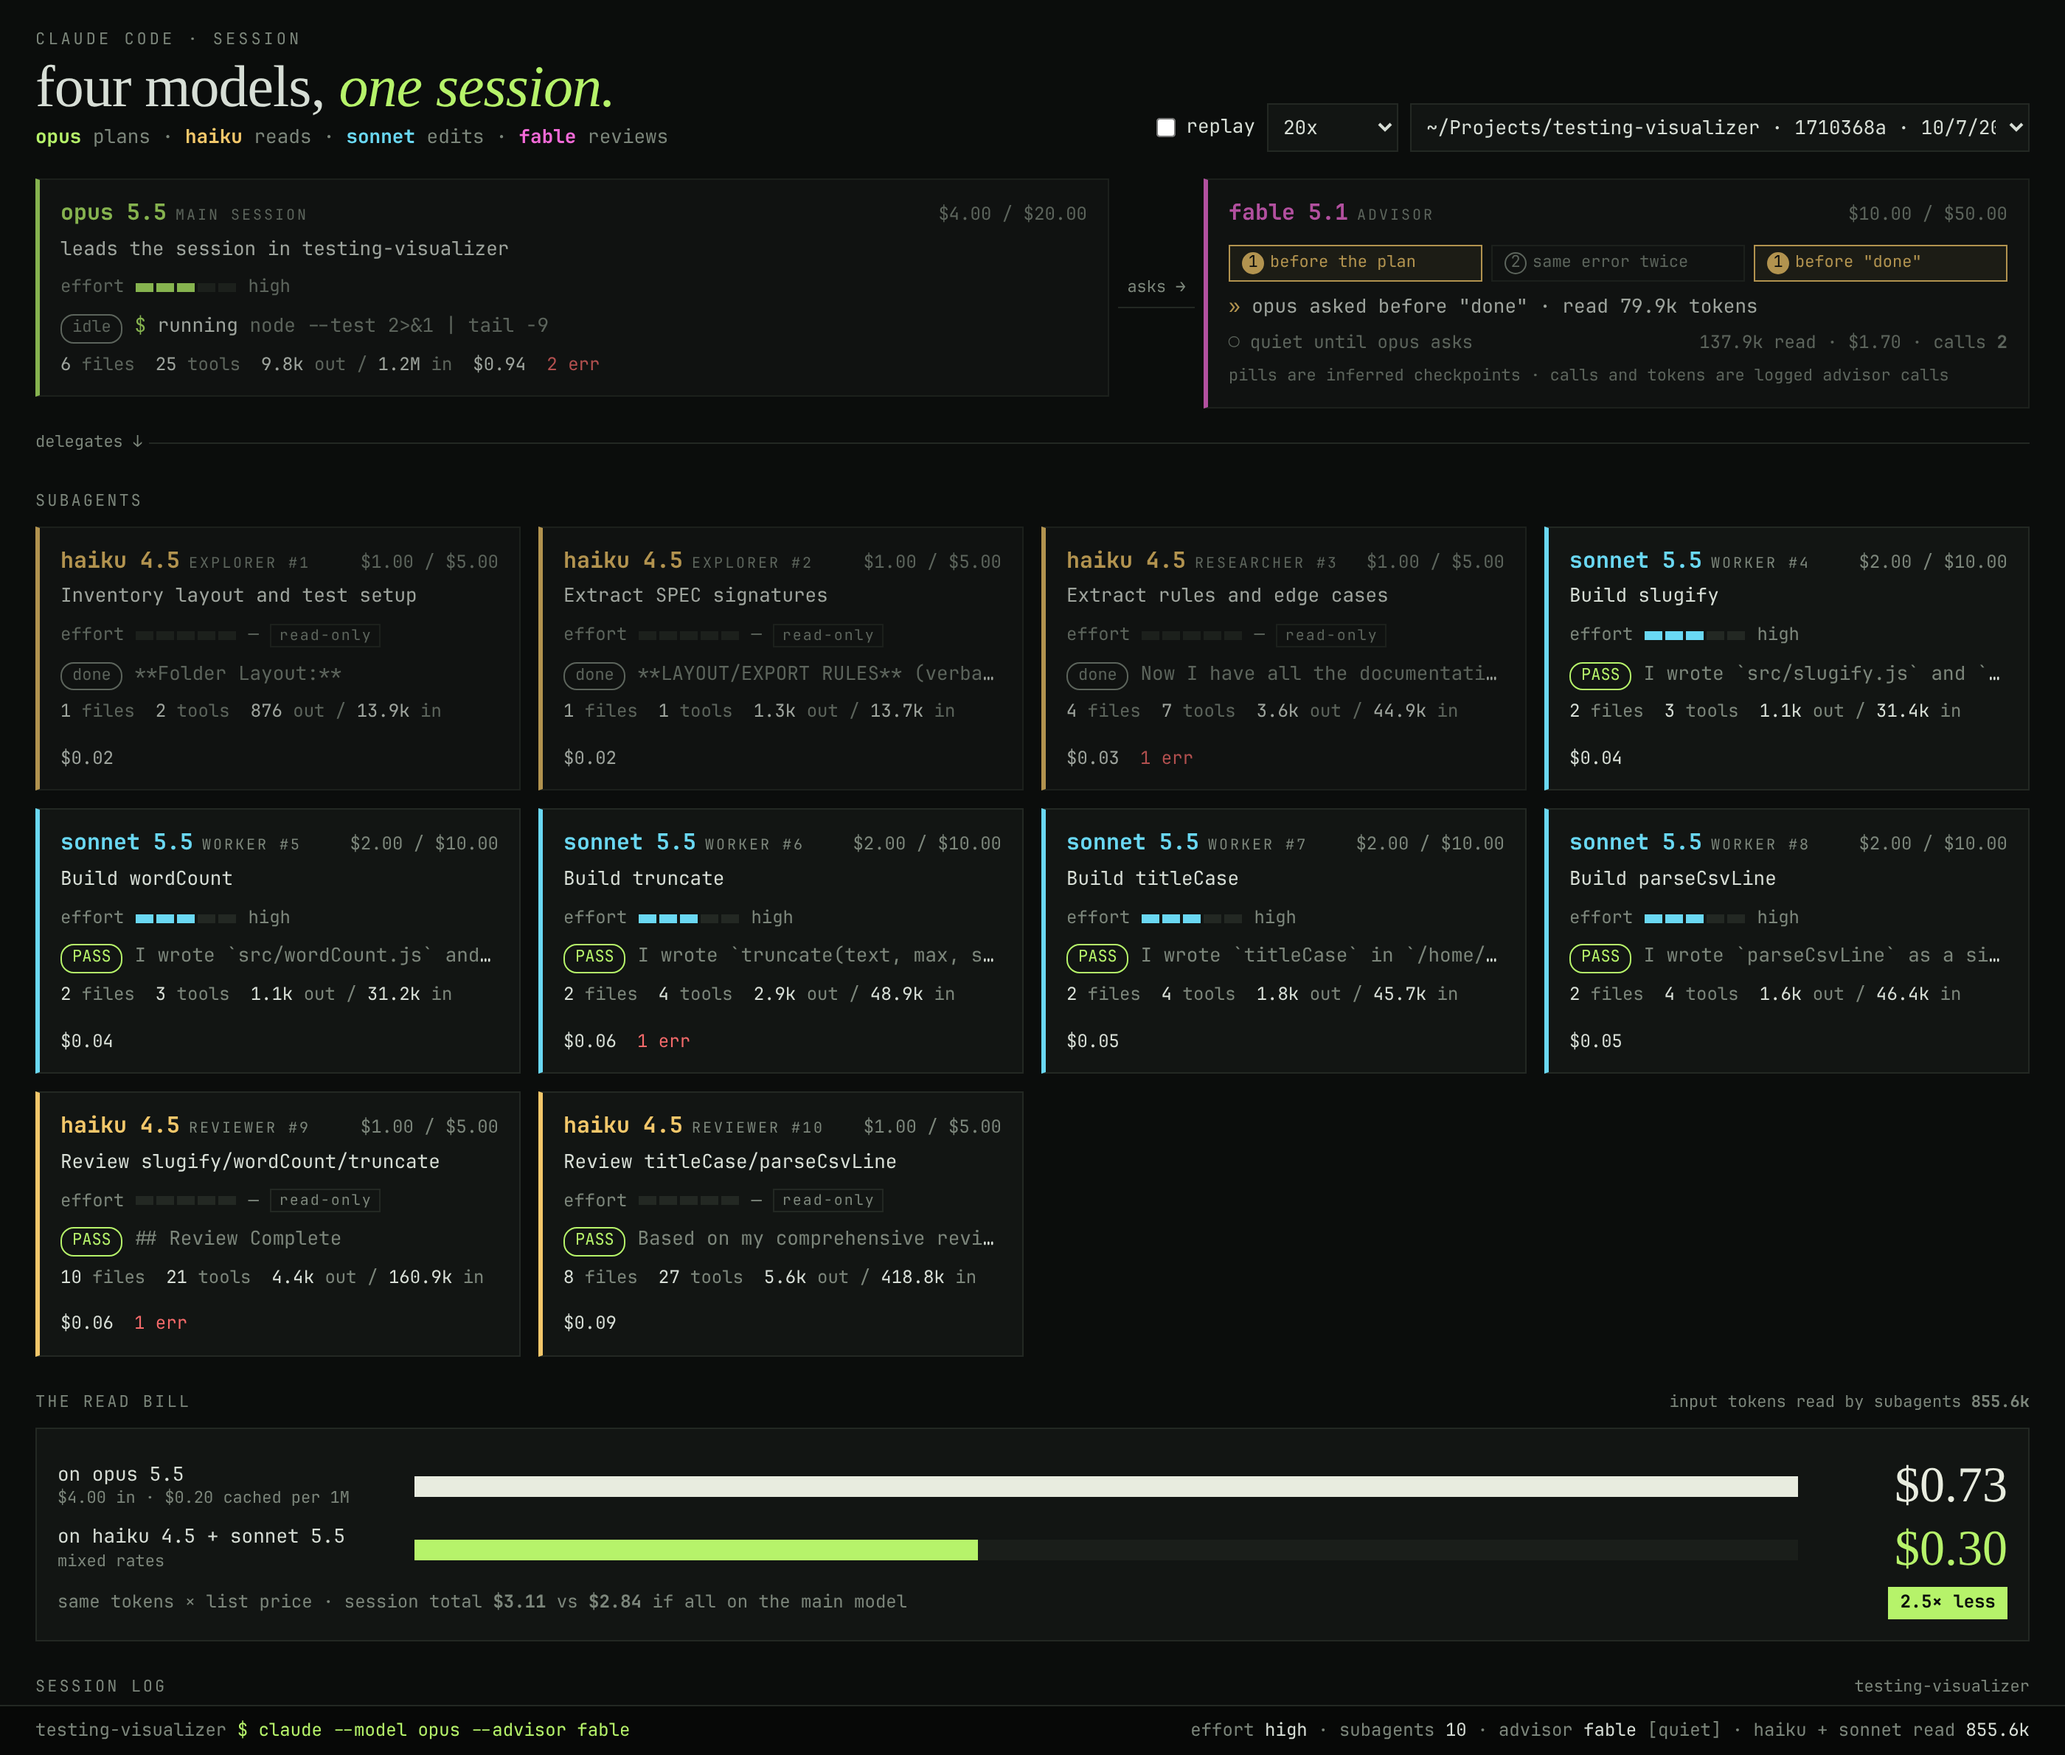
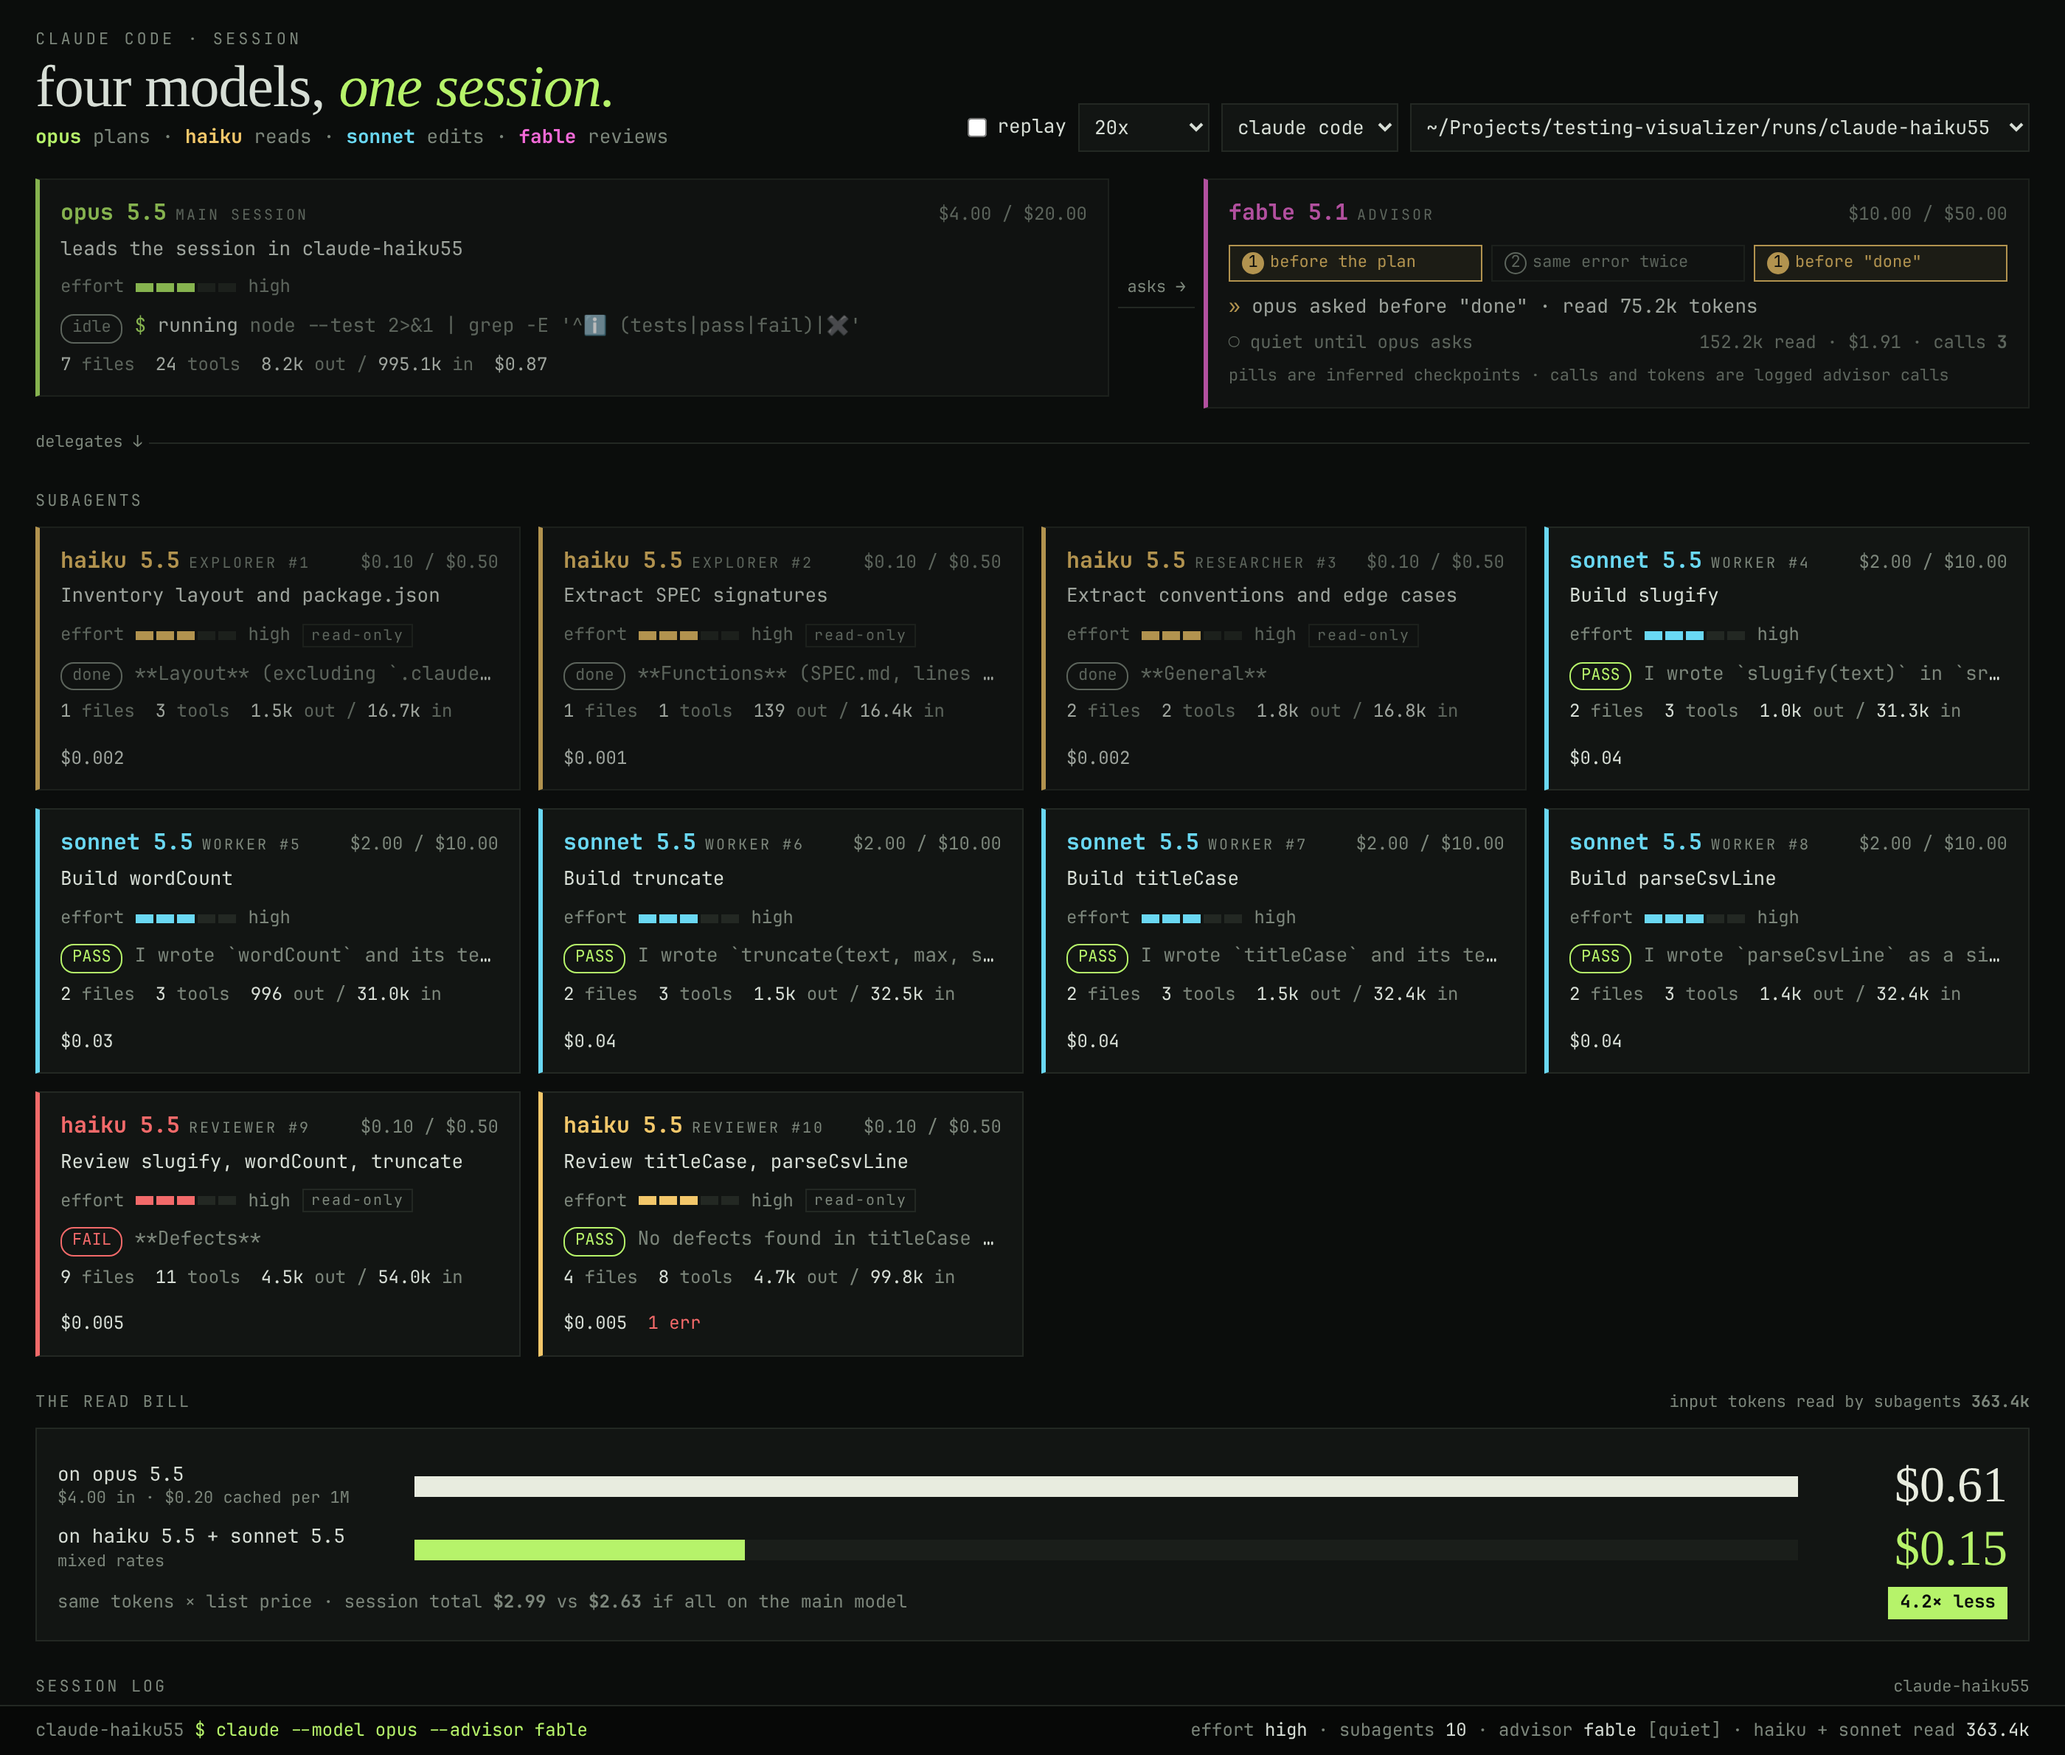
README: demo screenshot of the Haiku 5.5 run; show sub-cent costs

diff --git a/index.html b/index.html
@@ -155,7 +155,7 @@
 import { createState, ingest, ingestMeta, summary, stateOf, verb, label, family, shortModel, priceFor, setLocalPrices, CLAUDE_FAMILIES, EFFORT, cost, agentCost, readTokens } from './aggregate.js';
 
 const $ = id => document.getElementById(id);
-const fmt$ = n => n == null ? '?' : '$' + (n < 10 ? n.toFixed(2) : n.toFixed(1));
+const fmt$ = n => n == null ? '?' : '$' + (n > 0 && n < 0.01 ? n.toFixed(3) : n < 10 ? n.toFixed(2) : n.toFixed(1));  // 3 decimals below a cent
 const fmtK = n => n >= 1e6 ? (n / 1e6).toFixed(1) + 'M' : n >= 1e3 ? (n / 1e3).toFixed(1) + 'k' : String(Math.round(n));
 const fmtN = n => String(Math.round(n));
 const time = ts => new Date(ts).toLocaleTimeString([], { hour12: false });

diff --git a/README.md b/README.md
@@ -2,9 +2,9 @@
 
 Live dashboard of one coding-agent session: the main agent, its advisor and its subagents, with the model each one runs, what it is doing, token use and cost. Pick the agent harness from a dropdown.
 
-![Four models, one session: an Opus 5.5 main agent with a Fable 5.1 advisor and 10 Haiku 4.5 and Sonnet 5.5 subagents](docs/demo.png)
+![Four models, one session: an Opus 5.5 main agent with a Fable 5.1 advisor and 10 Haiku 5.5 and Sonnet 5.5 subagents](docs/demo.png)
 
-*A real run: Opus 5.5 plans and reviews, Fable 5.1 advises at two checkpoints, and 10 subagents (Haiku 4.5 reads, Sonnet 5.5 edits) build a small library in 4m46s for $3.11.*
+*A real run: Opus 5.5 plans and reviews, Fable 5.1 advises three times, and 10 subagents (Haiku 5.5 reads and reviews, Sonnet 5.5 edits) build a small library in 3m54s for $2.99. The five Haiku 5.5 subagents cost $0.016 together.*
 
 It only reads the session files each harness already writes, and never writes into them.
 
